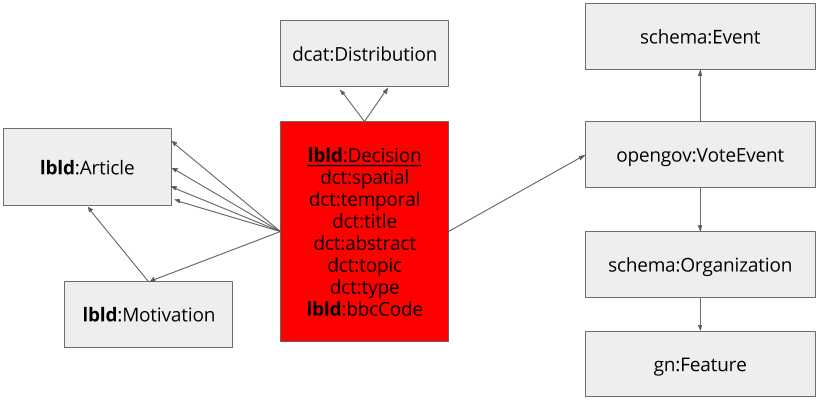
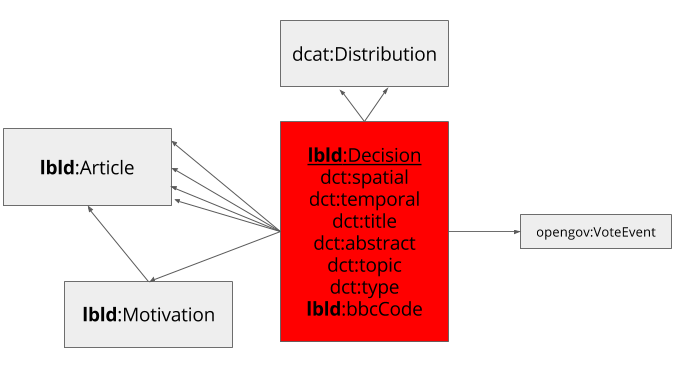
OpenGov linked instead of described

diff --git a/index.html b/index.html
@@ -90,7 +90,10 @@
       </p>
 
       <h3>Describing vote events</h3>
-      <p>For describing vote events, we refer to the <a href="http://www.popoloproject.com/specs/motion.html">opengov specification</a></p>
+      <p>
+        For describing vote events, we refer to the <a href="http://www.popoloproject.com/specs/motion.html">opengov specification</a>.
+        A vote event has a link to the organization body.
+      </p>
     </section>
     
     <section>
